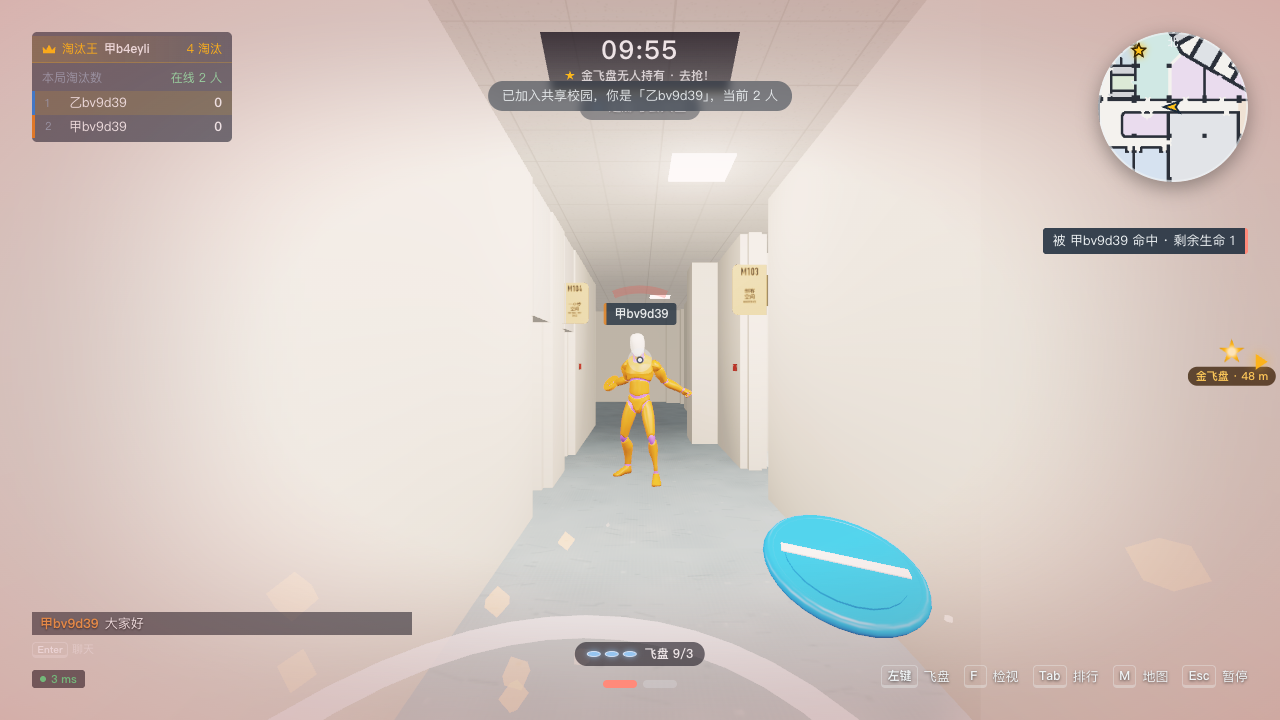
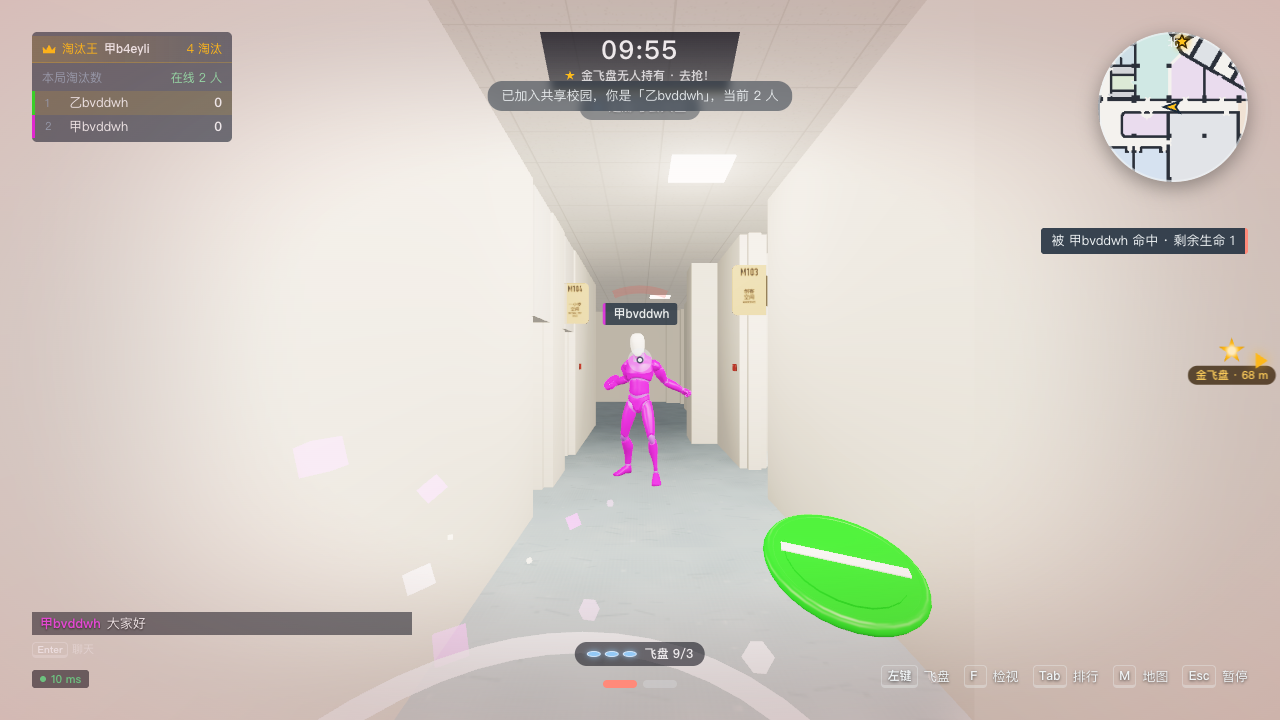
fix: ease into combat damage vignette

diff --git a/src/ui/theme.css b/src/ui/theme.css
@@ -1414,9 +1414,9 @@ legend {
 }
 
 .damage {
-    --edge-alpha: 0.46;
-    --wash-alpha: 0.055;
-    --damage-peak: 0.68;
+    --edge-alpha: 0.32;
+    --wash-alpha: 0.025;
+    --damage-peak: 0.48;
     position: absolute;
     inset: 0;
     opacity: 0;
@@ -1431,19 +1431,22 @@ legend {
 }
 
 #app-ui[data-reduced-flashes='true'] .damage {
-    --edge-alpha: 0.3;
-    --wash-alpha: 0.025;
-    --damage-peak: 0.38;
+    --edge-alpha: 0.21;
+    --wash-alpha: 0.012;
+    --damage-peak: 0.26;
 }
 
 #app-ui[data-reduced-flashes='true'] .damage-dir {
-    --direction-alpha: 0.38;
-    --damage-peak: 0.42;
+    --direction-alpha: 0.3;
+    --damage-peak: 0.34;
 }
 
 @keyframes damage {
     0% {
-        opacity: var(--damage-peak, 0.68);
+        opacity: 0;
+    }
+    12% {
+        opacity: var(--damage-peak, 0.48);
     }
     100% {
         opacity: 0;
@@ -1452,14 +1455,14 @@ legend {
 
 @media (prefers-reduced-motion: reduce) {
     .damage {
-        --edge-alpha: 0.3;
-        --wash-alpha: 0.025;
-        --damage-peak: 0.38;
+        --edge-alpha: 0.21;
+        --wash-alpha: 0.012;
+        --damage-peak: 0.26;
     }
 
     .damage-dir {
-        --direction-alpha: 0.38;
-        --damage-peak: 0.42;
+        --direction-alpha: 0.3;
+        --damage-peak: 0.34;
     }
 }
 
@@ -1651,8 +1654,8 @@ legend {
 }
 
 .damage-dir {
-    --direction-alpha: 0.68;
-    --damage-peak: 0.62;
+    --direction-alpha: 0.48;
+    --damage-peak: 0.5;
     position: absolute;
     top: 50%;
     left: 50%;

diff --git a/tests/browser/campus-game.spec.ts b/tests/browser/campus-game.spec.ts
@@ -12,12 +12,16 @@ test('reduced-flash damage cues fade away instead of leaving a persistent screen
         document.querySelector('#damage')!.classList.add('show');
         document.querySelector('#damage-dir')!.classList.add('show');
     });
-    const durations = await page.evaluate(() =>
-        ['#damage', '#damage-dir'].map((selector) =>
-            document.querySelector(selector)!.getAnimations()[0]?.effect?.getTiming().duration
-        )
-    );
-    expect(durations).toEqual([280, 280]);
+    const feedback = await page.evaluate(() => {
+        const damage = document.querySelector<HTMLElement>('#damage')!;
+        const direction = document.querySelector<HTMLElement>('#damage-dir')!;
+        return {
+            durations: [damage, direction].map((element) => element.getAnimations()[0]?.effect?.getTiming().duration),
+            peaks: [damage, direction].map((element) => getComputedStyle(element).getPropertyValue('--damage-peak').trim())
+        };
+    });
+    expect(feedback.durations).toEqual([280, 280]);
+    expect(feedback.peaks).toEqual(['0.26', '0.34']);
     await page.evaluate(() => {
         document.querySelector('#damage')!.getAnimations()[0].finish();
         document.querySelector('#damage-dir')!.getAnimations()[0].finish();

diff --git a/docs/COMBAT_FEEL_2_0.md b/docs/COMBAT_FEEL_2_0.md
@@ -56,7 +56,7 @@ Baseline HEAD at task start: `3a191d68cb4b2e6bebd6aeed77fa5fc85b7f9a3c` (`origin
 | Blackout/floodlight fade browser regression | Local blackout visibly passes through nonzero pooled-light and fixture intensity before reaching zero; repair restores lighting; two clients receive the same authoritative outage/repair route | PASS, `tests/browser/power.spec.ts` 2/2 |
 | Typecheck/lint/build after lighting transition | TS client and Worker checks, ESLint, production bundle | PASS; bundle 1,887.05 kB raw / 484.27 kB gzip with existing chunk warning |
 | Combat Feel Lab dummy presets | Development-only P panel buttons exercise shared dummy body-hit, headshot, normal elimination and golden-elimination feedback; browser test checks hit state, kill copy, respawn and golden confirmation | PASS, targeted browser test 1/1 |
-| Body-hit visual clarity and reduced-flash behavior | Dual-client combat hit capture; normal and reduced-flash damage cues use a restrained 280 ms opacity fade and return to zero rather than leaving a static tint | PASS, targeted multiplayer capture 1/1 and reduced-flash browser test 1/1 |
+| Body-hit visual clarity and reduced-flash behavior | Dual-client combat hit capture; the vignette rises from transparent to a reduced peak before fading over 280 ms, while reduced-flash uses lower peak values and both cues return to zero | PASS, targeted multiplayer capture 1/1 and reduced-flash browser test 1/1 |
 | Practice execution copy regression | Shared dummy feedback initially replaced the execution-specific confirmation; restored `人偶 · 处决淘汰` while keeping the shared hit/effect pipeline | PASS, preset and execution browser tests 2/2 |
 | Full development browser suite after fixes | Audio lab, dummy execution, every authored doorway, campus movement/interaction, route, multiplayer combat/execution and power-switch scenarios | PASS, 16/16 in 2.5 min |
 | Production browser smoke after all current changes | Production preview loads FF-01 and physics, then enters through pointer lock | PASS, 1/1 |
@@ -80,7 +80,7 @@ The Ammo.js build logs a warning that scaled BVH triangle mesh shapes are unavai
 | Feedback priority director | IN PROGRESS | Deduplication and HUD priority windows are implemented and unit-tested; round-result audio routes through the director. Full scenario coverage remains. |
 | Throw animation and flight feedback | PARTIAL | A custom 0.72 s upper-body additive frisbee throw track is attached to the rig at load. Remote clients start at its authored release marker when the server `thrown` event arrives, then play the follow-through. Browser E2E confirms the action state and a changed remote upper-arm quaternion with rendering active. Full visual review of release timing, hand/disc alignment, and trail tuning remains. |
 | Character hit reactions | PARTIAL | Rigged body/head/death reaction clips are connected and visually captured. The provided clips do not include a frisbee throw, so the dedicated throw action is authored as an upper-body additive track; its gameplay dispatch and bone response are browser-tested, while its visual quality review remains. Firearm clips are intentionally not substituted. |
-| Damage feedback clarity | PARTIAL | Reduced the full-screen red vignette/wash and shortened the body damage cue from 600 ms to 280 ms. `reducedFlashes` now uses lower-opacity fades for both the vignette and directional arc and still clears; browser capture and end-frame check pass. Audio quality and subjective comfort remain unverified. |
+| Damage feedback clarity | PARTIAL | Reduced the full-screen red vignette/wash and shortened the body damage cue from 600 ms to 280 ms. The animation now starts transparent and rises to a 0.48 peak; `reducedFlashes` lowers the vignette peak to 0.26 and directional-arc peak to 0.34, then both clear. Browser capture and end-frame checks pass. Audio quality and subjective comfort remain unverified. |
 | Camera impulses / reduced motion | IN PROGRESS | Random per-frame camera jitter and random yaw kick removed; bounded damped position/FOV response leaves mouse aim unchanged. Off/Low/Normal mode and settings persistence are implemented. Unit test passes; browser QA pending. |
 | Audio buses, attenuation, voice caps | IN PROGRESS | Combat/confirmation/environment/UI buses, master/combat/confirmation volumes, confirmation ducking, per-bus source caps, and ended-source cleanup implemented. Owner-selected clips remain intact; browser/performance evidence pending. |
 | HUD hierarchy and duplicate suppression | IN PROGRESS | Hit/kill/golden/personal-damage/round-result priority windows and server-event dedupe are integrated. More combat and simultaneous-event browser coverage remains. |
